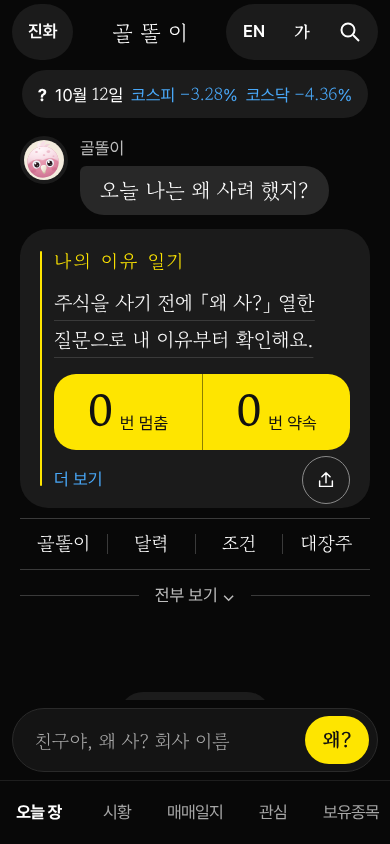
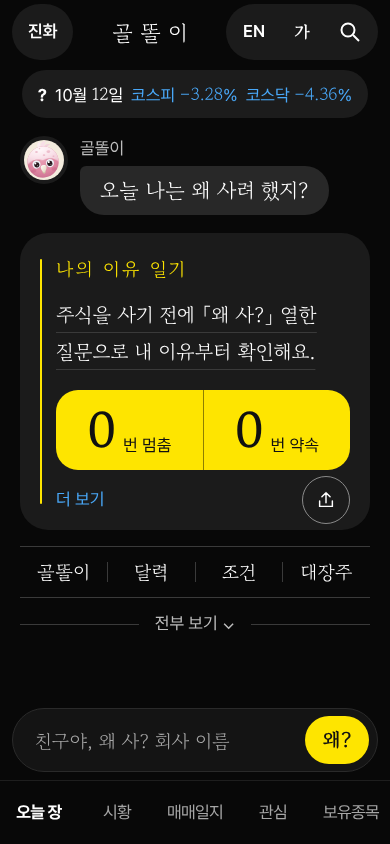
2030 석 장 — 그리는 중 사본
Claude-Session: https://claude.ai/code/session_01NCpyR4ELc71hqitZJpUS2Z

diff --git a/docs/design/kakao-2026-10-19/mock/f1.html b/docs/design/kakao-2026-10-19/mock/f1.html
@@ -37,14 +37,14 @@ button,input{font:inherit;color:inherit;background:none;border:0}
 .say{display:inline-block;background:#282828;border-radius:6px 24px 24px 24px;padding:10px 20px;font-size:21px;line-height:1.4}
 
 /* 일기장 한 쪽 = 내 것 · 왼쪽 노란 여백 줄 · 글은 줄 위에 쓰듯 */
-.diary{margin-top:14px;background:#1B1B1B;border-radius:28px;padding:20px 20px 4px 34px;position:relative}
-.diary::before{content:"";position:absolute;left:20px;top:22px;bottom:22px;width:2px;border-radius:1px;background:#FEE500}
+.diary{margin-top:18px;background:#1B1B1B;border-radius:28px;padding:24px 20px 6px 36px;position:relative}
+.diary::before{content:"";position:absolute;left:20px;top:26px;bottom:26px;width:2px;border-radius:1px;background:#FEE500}
 .diary .hd{font-size:19px;color:#FEE500;letter-spacing:.12em;line-height:1.3}
-.diary p[data-ess="1"]{margin-top:10px;font-size:20px;line-height:1.85;color:#FFFFFF;word-break:keep-all;text-decoration:underline;text-decoration-color:#3A3A3A;text-decoration-thickness:1px;text-underline-offset:9px}
-.rec{display:flex;align-items:stretch;margin-top:16px;background:#FEE500;color:#111111;border-radius:22px;min-height:76px}
+.diary p[data-ess="1"]{margin-top:14px;font-size:20px;line-height:1.85;color:#FFFFFF;word-break:keep-all;text-decoration:underline;text-decoration-color:#3A3A3A;text-decoration-thickness:1px;text-underline-offset:9px}
+.rec{display:flex;align-items:stretch;margin-top:20px;background:#FEE500;color:#111111;border-radius:22px;min-height:76px}
 .rec .cell{flex:1;display:flex;align-items:baseline;justify-content:center;gap:6px;padding:14px 8px 12px}
 .rec .cell+.cell{border-left:1px solid #8C7F00}
-.rec b{font-family:"Gowun Batang",serif;font-weight:700;font-size:44px;line-height:1}
+.rec b{font-family:"Gowun Batang",serif;font-weight:700;font-size:50px;line-height:1}
 .rec span{font-size:17px;color:#111111}
 .diary .foot{display:flex;align-items:center;justify-content:space-between;margin-top:6px}
 .diary details{flex:1}
@@ -53,7 +53,7 @@ button,input{font:inherit;color:inherit;background:none;border:0}
 .diary details p{font-size:17px;color:#D6D6D6;margin:4px 0 12px;line-height:1.55}
 .kk-btn{width:48px;height:48px;border-radius:24px;border:1px solid #8A8A8A !important;display:flex;align-items:center;justify-content:center}
 
-.gdr{margin-top:10px;display:flex;align-items:center;border-top:1px solid #3A3A3A;border-bottom:1px solid #3A3A3A}
+.gdr{margin-top:16px;display:flex;align-items:center;border-top:1px solid #3A3A3A;border-bottom:1px solid #3A3A3A}
 .gdr a{flex:1;min-height:50px;display:flex;align-items:center;justify-content:center;font-family:"Gowun Batang",serif;font-size:19px;color:#FFFFFF}
 .gdr i{flex:0 0 1px;height:20px;background:#3A3A3A}
 
@@ -65,7 +65,7 @@ button,input{font:inherit;color:inherit;background:none;border:0}
 .all li a{display:flex;min-height:52px;align-items:center;padding:0 4px;width:100%;font-size:17px}
 .all li{border-bottom:1px solid #3A3A3A}
 
-.news{margin-top:72px}
+.news{margin-top:140px}
 .news h2{font-weight:400;font-size:17px;display:flex;justify-content:center;margin-bottom:20px}
 .news h2 span{background:#1C1C1C;border-radius:24px;padding:12px 20px}
 .news ul{list-style:none;margin-left:60px;border-top:1px solid #3A3A3A}

diff --git a/docs/design/kakao-2026-10-19/mock/f2.why.md b/docs/design/kakao-2026-10-19/mock/f2.why.md
@@ -1,0 +1,23 @@
+# f2 · 「친구랑 같이」 (h1 「새긴 글자」 바탕)
+
+한 줄 생각: 첫 화면이 친구와 나눈 대화 한 토막처럼 열린다. 내가 「친구야, 왜 사?」 하고 묻고, 골똘이가 답하고, 그 답을 바로 친구에게 보낸다.
+
+## 왜? 다섯
+1. 왜 맨 위가 노란 내 말 「친구야, 왜 사?」인가? 이름판에 새긴 글자보다 내가 친구에게 건네는 말이 더 가깝다. 노랑은 내 말이라 규칙에도 맞다.
+2. 왜 본질 칸이 골똘이의 답장 카드인가? 혼자 읽는 안내문이 아니라 누가 내 물음에 답해 준 느낌을 주려고. 카드 모서리도 말풍선처럼 왼쪽 위만 좁혔다.
+3. 왜 보내기 단추를 카드 맨 아래 흰 줄로 넓혔나? 또래가 함께 볼 때 더 쓴다는 연구를 따랐다. 「친구에게도 물어봐」 한 번이면 보낸다. 노랑은 내 것에만 쓰므로 흰색으로 또렷하게 했다.
+4. 왜 「오늘은 같이 쉬어 갈까?」인가? 골똘이 말을 카드 바로 밑에 이어 붙여 한 사람이 말을 잇는 카톡 모양이 됐다. 「같이」 한 마디로 혼자가 아니라는 느낌을 준다. 몇 명이 함께했다는 숫자는 지어내지 않았다.
+5. 본질: 사기 전에 한 번 멈추게 하는 곳. 사려는 순간 친구에게 「왜 사?」 묻는 일이 가장 자연스러운 멈춤이다.
+
+## 그럴까?
+친구에게 보내는 단추가 너무 커서 「내 이유 확인」보다 「보내기」가 먼저 눈에 띌 수 있다. 그래서 첫 질문 길인 아래 노란 「왜?」 단추와 맨 위 노란 물음은 그대로 노랑으로 남겼다.
+
+## 배운 것을 이렇게 썼다
+- 내 삶과 닮은 말(인베스트엑스디 연구) — 맨 위 말이 안내문이 아니라 친구에게 하는 말 「친구야, 왜 사?」.
+- 또래가 쓰는 것을 볼 때 더 씀 — 숫자 대신 「친구에게도 물어봐」 보내기 길을 가장 크게.
+- 단계를 줄인 쉬움 — 보내기는 한 번 누름, 첫 질문은 아래 노란 「왜?」 그대로.
+- 고정관념 장식 0 — 분홍 칠 · 꽃 · 하트 · 리본 없음. 따뜻함은 말투와 말풍선 모양으로만.
+- 지어낸 숫자 0 — 본질 세 줄 · 날짜 · 숫자는 h1 그대로.
+
+## h1 과 다른 점
+큰 글자 「왜 사?」 이름판 → 노란 내 말풍선 「친구야, 왜 사?」 · 본질 카드는 골똘이가 보낸 답장 · 작은 동그라미 보내기 → 카드 폭 흰 단추 · 골똘이 말 두 번째 얼굴을 빼고 이어 붙임.
